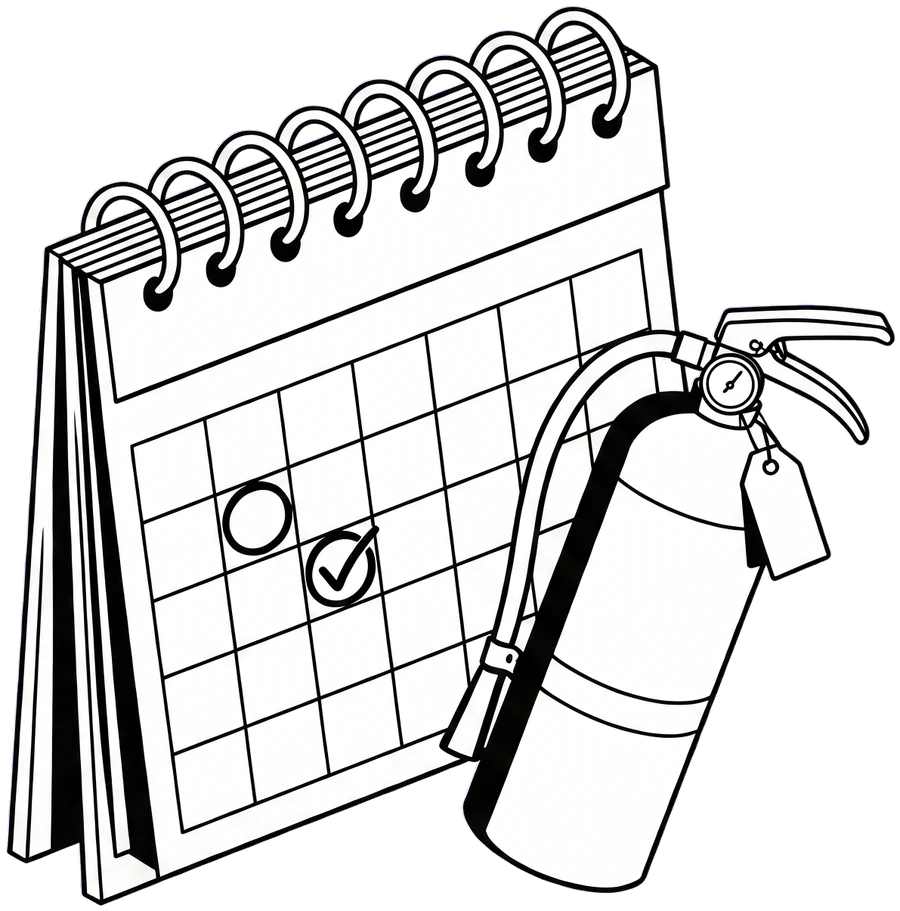
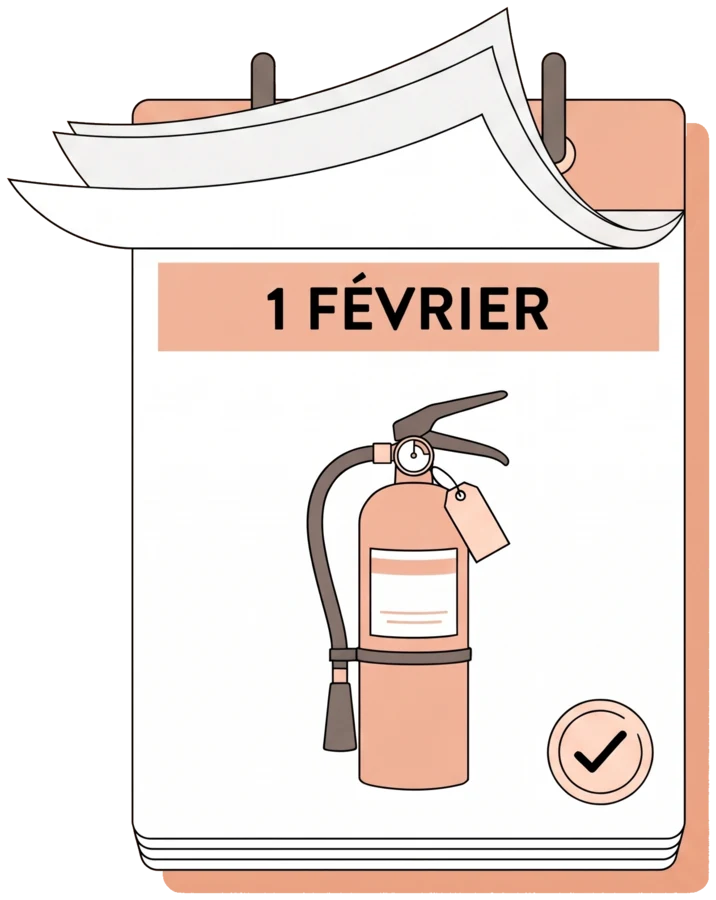
En-têtes : Calendrier, Plan d'actions et Ce qui doit être en place en images
Trois illustrations générées (Nano Banana Pro via Krea, choisies par la
propriétaire le 2026-11-09) remplacent l'image du Calendrier et les deux
dessins SVG de la section À faire. Détourées : le pêche vient du panneau
(TEINTE_SECTION), le même derrière les trois.

- ImageEnTete : un seul composant pour les illustrations en image.
- PlanActions et EnPlace deviennent des images ; l'animation ep-cle, qui
  ne servait qu'au plan d'actions, est retirée.
- Le test de l'illustration dessinée passe sur le DUERP, resté en SVG.

diff --git a/src/components/entete-page/illustrations/EnPlace.tsx b/src/components/entete-page/illustrations/EnPlace.tsx
@@ -1,72 +1,17 @@
-import { CadreIllustration, Extincteur } from "./motifs";
+import { ImageEnTete } from "./ImageEnTete";
 
 /**
- * Un pan de mur et son sol, en perspective : une porte sous son bloc de
- * sortie de secours, un extincteur sur son support, une trousse de secours,
- * une consigne affichée. Ce qui doit exister chez vous en permanence.
- *
- * L'animation : le bloc de sortie s'allume, puis une coche vient sur la
- * sortie, l'extincteur et la trousse — ce que la page fait faire : déclarer
- * en place, ligne par ligne.
- *
- * Les objets plats du mur vivent dans le repère du mur
- * (`matrix(0.866,0.5,0,1,…)`) ; l'extincteur, cylindre, se dessine droit.
+ * Un tableau d'affichage « En place » : le plan d'évacuation, les numéros
+ * utiles, l'interdiction de fumer — ce qui doit être affiché en permanence.
+ * Choisi par la propriétaire le 2026-11-09.
  */
 export function IllustrationEnPlace() {
-  const coche = (cx: number, cy: number, delai: string) => (
-    <g className="ep-pop" style={{ animationDelay: delai }}>
-      <circle cx={cx} cy={cy} r={12} fill="#0a0a0a" stroke="none" />
-      <path d={`M${cx - 5.5},${cy} l4,4 l7,-8`} fill="none" stroke="#fff" strokeWidth={2.4} />
-    </g>
-  );
-
   return (
-    <CadreIllustration viewBox="-20 30 370 395" className="w-[clamp(220px,24vw,330px)]">
-      <polygon points="40,210 334.4,380 282.4,410 -12,240" />
-      <polygon points="40,40 334.4,210 334.4,380 40,210" />
-
-      <g transform="matrix(0.866,0.5,0,1,40,40)">
-        {/* La porte */}
-        <rect x="28" y="46" width="80" height="124" vectorEffect="non-scaling-stroke" />
-        <rect x="35" y="53" width="66" height="117" strokeWidth={1.6} vectorEffect="non-scaling-stroke" />
-        <circle cx="91" cy="112" r="3.2" fill="#0a0a0a" stroke="none" />
-        {/* Le bloc de sortie de secours */}
-        <g className="ep-lueur">
-          <rect x="40" y="14" width="56" height="22" rx="2" fill="#0a0a0a" stroke="none" />
-          <circle cx="52" cy="20" r="2.3" fill="#fff" stroke="none" />
-          <path
-            d="M51.5,23 L50,29 L53.5,32.5 M50,29 L47,32.5 M51.5,24 L55,25.5 M51.5,24 L48,25.5 M62,25 H88 M83,20.5 L88,25 L83,29.5"
-            fill="none"
-            stroke="#fff"
-            strokeWidth={1.7}
-            vectorEffect="non-scaling-stroke"
-          />
-        </g>
-        {/* Le support de l'extincteur */}
-        <rect x="161" y="66" width="14" height="10" fill="#0a0a0a" stroke="none" />
-        {/* La consigne affichée */}
-        <rect x="296" y="28" width="36" height="52" strokeWidth={2} vectorEffect="non-scaling-stroke" />
-        <path d="M302,40H326M302,48H326M302,56H320M302,64H326" strokeWidth={2} vectorEffect="non-scaling-stroke" />
-        <rect x="302" y="69" width="10" height="6" fill="#0a0a0a" stroke="none" />
-      </g>
-
-      {/* La trousse de secours, en relief sur le mur */}
-      <polygon points="239.2,215 239.2,255 230.5,260 230.5,220" />
-      <polygon points="239.2,255 282.5,280 273.8,285 230.5,260" fill="#0a0a0a" />
-      <g transform="translate(-8.7,5)">
-        <g transform="matrix(0.866,0.5,0,1,40,40)">
-          <rect x="230" y="60" width="50" height="40" vectorEffect="non-scaling-stroke" />
-          <rect x="250" y="68" width="10" height="24" fill="#0a0a0a" stroke="none" />
-          <rect x="243" y="75" width="24" height="10" fill="#0a0a0a" stroke="none" />
-        </g>
-      </g>
-
-      {/* L'extincteur, accroché */}
-      <Extincteur transform="translate(9,145)" etiquette />
-
-      {coche(132, 96, "0.9s")}
-      {coche(222, 186, "1.25s")}
-      {coche(300, 226, "1.6s")}
-    </CadreIllustration>
+    <ImageEnTete
+      src="/illustrations/entetes/en-place.webp"
+      width={900}
+      height={687}
+      className="w-[clamp(240px,24vw,340px)]"
+    />
   );
 }

diff --git a/src/components/entete-page/illustrations/PlanActions.tsx b/src/components/entete-page/illustrations/PlanActions.tsx
@@ -1,55 +1,17 @@
-import { CadreIllustration, Crayon } from "./motifs";
+import { ImageEnTete } from "./ImageEnTete";
 
 /**
- * Un porte-bloc couché, sa liste de quatre mesures : deux faites, la
- * troisième que le crayon coche, la dernière à venir. À côté, un triangle
- * d'alerte qu'une clé est en train de régler — le risque qu'on traite.
- *
- * L'animation : la coche de la troisième ligne se trace sous le crayon, puis
- * la clé tourne.
+ * Un porte-bloc « Plan d'actions » : trois actions (prise, extincteur,
+ * hotte), deux cochées, la troisième à faire, un tournevis posé en travers.
+ * Choisi par la propriétaire le 2026-11-09.
  */
 export function IllustrationPlanActions() {
   return (
-    <CadreIllustration viewBox="-70 30 430 290" className="w-[clamp(260px,30vw,420px)]">
-      {/* Le porte-bloc */}
-      <polygon points="-55.2,190 118,290 118,298 -55.2,198" />
-      <polygon points="343.2,160 118,290 118,298 343.2,168" />
-      <polygon points="170,60 343.2,160 118,290 -55.2,190" fill="#0a0a0a" />
-      <g transform="matrix(0.866,0.5,-0.866,0.5,170,60)">
-        <rect x="12" y="22" width="176" height="230" rx="3" vectorEffect="non-scaling-stroke" />
-        <g fill="none">
-          {[60, 110, 160, 210].map((y) => (
-            <rect key={y} x="30" y={y} width="20" height="20" rx="3" vectorEffect="non-scaling-stroke" />
-          ))}
-          <path d="M64,70H150M64,120H136" strokeWidth={1.4} vectorEffect="non-scaling-stroke" />
-          <path d="M64,170H160M64,220H144" strokeWidth={3.2} vectorEffect="non-scaling-stroke" />
-          <path d="M33,69 l5,5 l10,-11" strokeWidth={3} vectorEffect="non-scaling-stroke" />
-          <path d="M33,119 l5,5 l10,-11" strokeWidth={3} vectorEffect="non-scaling-stroke" />
-          {/* Sans `non-scaling-stroke` : il applique les tirets dans le
-              repère de l'écran, où `pathLength` ne normalise plus — la
-              coche pouvait rester en pointillés après son tracé. */}
-          <path className="ep-trace" style={{ animationDelay: "0.7s" }} pathLength={1} d="M33,169 l5,5 l10,-11" strokeWidth={3.4} />
-        </g>
-      </g>
-      {/* La pince */}
-      <polygon points="234.1,69 303.4,109 280.9,122 211.6,82" />
-      <polygon points="211.6,96 280.9,136 280.9,122 211.6,82" />
-      <polygon points="303.4,123 280.9,136 280.9,122 303.4,109" />
-
-      {/* Le crayon, pointe sur la troisième case */}
-      <Crayon className="ep-crayon" style={{ animationDelay: "0.6s" }} />
-
-      {/* Le triangle d'alerte et la clé */}
-      <polygon points="300,200 336,262 264,262" />
-      <rect x="297" y="220" width="6" height="24" rx="3" fill="#0a0a0a" stroke="none" />
-      <circle cx="300" cy="252" r="3.6" fill="#0a0a0a" stroke="none" />
-      <g transform="translate(262,268) rotate(-38)">
-        <g className="ep-cle" style={{ animationDelay: "1.4s" }}>
-          <rect x="0" y="-6" width="70" height="12" rx="6" />
-          <circle cx="80" cy="0" r="15" />
-          <rect x="80" y="-5" width="18" height="10" fill="#0a0a0a" stroke="none" />
-        </g>
-      </g>
-    </CadreIllustration>
+    <ImageEnTete
+      src="/illustrations/entetes/plan-actions.webp"
+      width={634}
+      height={900}
+      className="w-[clamp(180px,17vw,240px)]"
+    />
   );
 }

diff --git a/src/components/entete-page/illustrations/Calendrier.tsx b/src/components/entete-page/illustrations/Calendrier.tsx
@@ -1,24 +1,17 @@
-import Image from "next/image";
+import { ImageEnTete } from "./ImageEnTete";
 
 /**
- * Un calendrier à spirale, un extincteur et son étiquette de maintenance :
- * les vérifications datées. Illustration générée (Krea) choisie par la
- * propriétaire le 2026-10-25, détourée — fond rendu transparent pour que
- * la teinte de section passe dessous — et servie en WebP.
- *
- * Image plate, donc sans animation : elle en aura une le jour où elle sera
- * vectorisée en calques séparés.
+ * Un éphéméride au 1er février : les pages de la veille passent par-dessus
+ * les anneaux, la page du jour porte l'extincteur à vérifier et le tampon
+ * coché. Choisi par la propriétaire le 2026-11-09.
  */
 export function IllustrationCalendrier() {
   return (
-    <Image
+    <ImageEnTete
       src="/illustrations/entetes/calendrier.webp"
-      alt=""
-      width={900}
-      height={911}
-      priority
-      sizes="(min-width: 768px) 300px, 0px"
-      className="h-auto w-[clamp(220px,21vw,300px)]"
+      width={716}
+      height={900}
+      className="w-[clamp(200px,19vw,270px)]"
     />
   );
 }

diff --git a/src/components/entete-page/illustrations/ImageEnTete.tsx b/src/components/entete-page/illustrations/ImageEnTete.tsx
@@ -1,0 +1,32 @@
+import Image from "next/image";
+
+/**
+ * Une illustration d'en-tête générée (Krea), détourée : le fond est
+ * transparent pour que la teinte de la section passe dessous, et c'est elle
+ * seule qui donne le pêche, le même derrière toutes les pages d'une section.
+ *
+ * Image plate, donc sans animation.
+ */
+export function ImageEnTete({
+  src,
+  width,
+  height,
+  className,
+}: {
+  src: string;
+  width: number;
+  height: number;
+  className: string;
+}) {
+  return (
+    <Image
+      src={src}
+      alt=""
+      width={width}
+      height={height}
+      priority
+      sizes="(min-width: 768px) 360px, 0px"
+      className={`h-auto ${className}`}
+    />
+  );
+}

diff --git a/src/components/entete-page/illustrations/index.tsx b/src/components/entete-page/illustrations/index.tsx
@@ -32,7 +32,8 @@ import { IllustrationZones } from "./Zones";
  * Le style est commun à toutes : trait noir d'épaisseur constante, aplats
  * noirs ponctuels, objets blancs en perspective isométrique, posés sur la
  * teinte de la section — pas de fond propre. Une seule animation par dessin
- * vectoriel (une image générée, comme celle du Calendrier, reste fixe),
+ * vectoriel (une image générée reste fixe : Calendrier, Plan d'actions et
+ * Ce qui doit être en place, `ImageEnTete`, depuis le 2026-11-09),
  * jouée une fois au chargement (`ep-*` dans `globals.css`), aucune si le
  * visiteur a demandé moins de mouvement.
  */

diff --git a/src/app/globals.css b/src/app/globals.css
@@ -703,18 +703,8 @@
   35% { transform: translate(5px, -4px); }
   70% { transform: translate(-2px, 2px); }
 }
-.ep-cle {
-  transform-box: fill-box;
-  transform-origin: 0% 50%;
-  animation: ep-cle 0.8s ease-in-out both;
-}
-@keyframes ep-cle {
-  0%, 100% { transform: rotate(0); }
-  30% { transform: rotate(-14deg); }
-  65% { transform: rotate(6deg); }
-}
 @media (prefers-reduced-motion: reduce) {
-  .ep-trace, .ep-pop, .ep-lueur, .ep-crayon, .ep-cle {
+  .ep-trace, .ep-pop, .ep-lueur, .ep-crayon {
     animation: none;
   }
 }

diff --git a/src/components/entete-page/EnTetePage.test.tsx b/src/components/entete-page/EnTetePage.test.tsx
@@ -59,7 +59,7 @@ describe("EnTetePage", () => {
   });
 
   it("une illustration dessinée est décorative : masquée aux lecteurs d'écran", () => {
-    const { container } = render(<EnTetePage item="actions" description="x" />);
+    const { container } = render(<EnTetePage item="duerp" description="x" />);
     const svg = container.querySelector("svg");
     expect(svg).not.toBeNull();
     expect(svg?.getAttribute("aria-hidden")).toBe("true");
